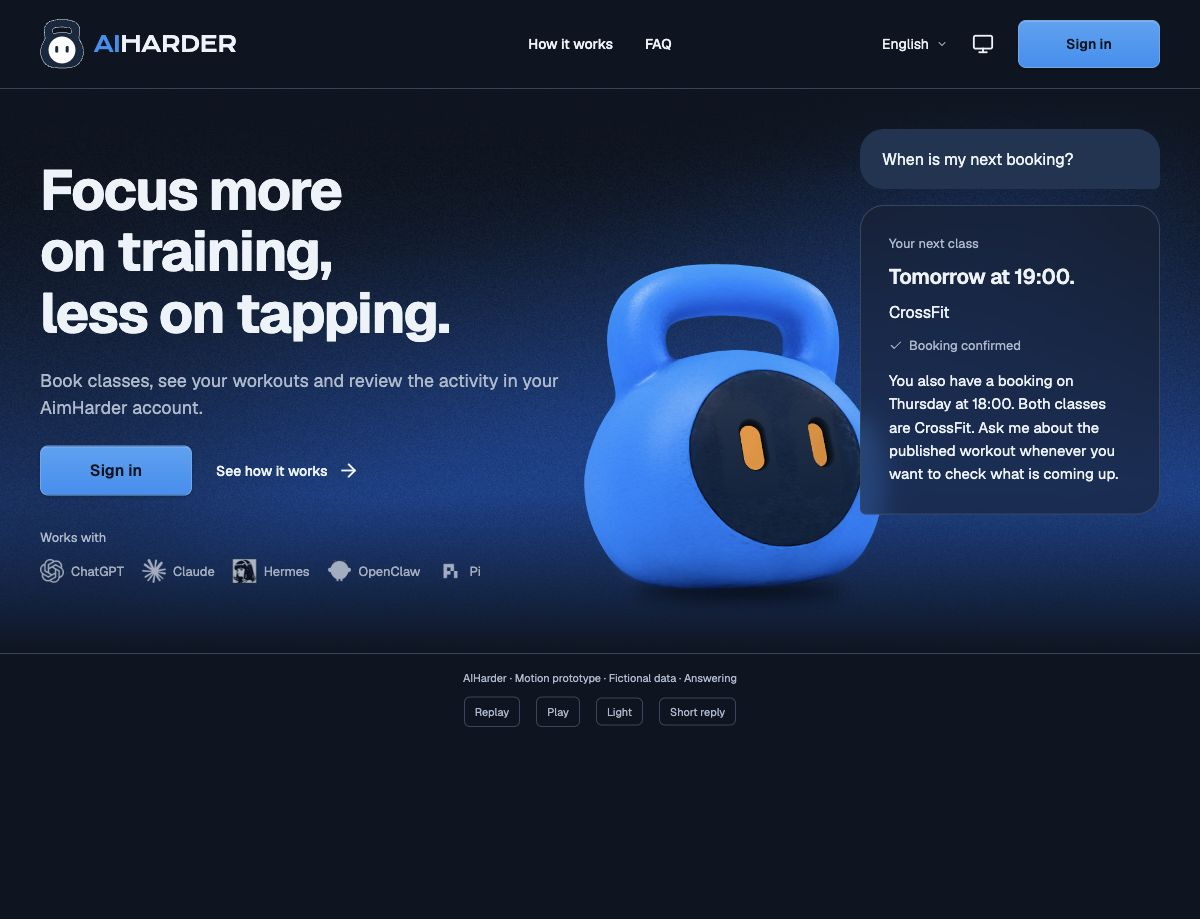
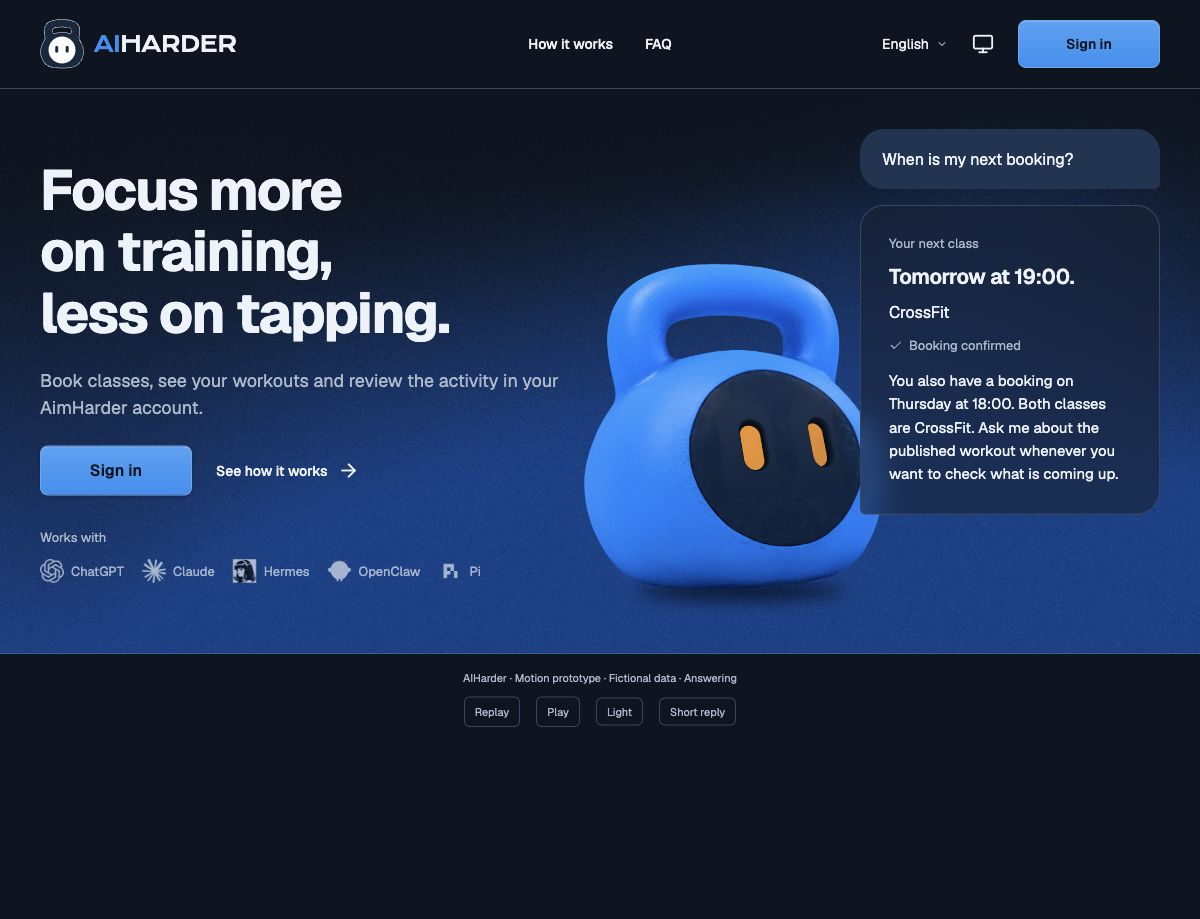
design: anchor hero gradient to a blue lower edge

Changed region(s): [[0.0, 0.5789, 1.0, 0.7312]]

diff --git a/design/home-study/hero-motion-prototype.html b/design/home-study/hero-motion-prototype.html
@@ -6,4 +6,4 @@
 @media(max-width:1320px){.kettle{left:-60px;top:126px;width:300px;height:344px}.kettle img{width:435.13px;height:435.13px;left:-68px;top:-57.79px}.answer{width:300px}.ground{left:-8px;top:460px;width:210px}.ground::after{width:154px}}
 @media(max-width:1150px){.hero{grid-template-columns:46% 1fr;gap:40px}h1{font-size:50px}.brand{font-size:20px}.utilities{gap:16px}.nav{gap:24px}.question{width:270px}.answer{width:300px}.kettle{left:-70px}.apps{gap:12px}.app{font-size:12px;gap:5px}}
 @media(max-width:850px){.container{width:calc(100% - 40px)}.header-inner{grid-template-columns:1fr auto;min-height:80px}.nav{display:none}.utilities{gap:16px}.language{display:none}.hero{display:block;padding-top:28px}.pitch{max-width:532px}.scene{height:520px;margin:32px auto 0;max-width:596px}.kettle{left:0}.question{right:0}.answer{right:0}.apps{flex-wrap:wrap}h1{font-size:44px}.header-signin{min-width:100px;padding:12px 18px}.brand{font-size:17px}.brand img{width:35px;height:40px}}
[2 lines of base64/hex data omitted]

diff --git a/design/home-study/hero-graphic-still.html b/design/home-study/hero-graphic-still.html
@@ -6,4 +6,4 @@
 @media(max-width:1320px){.kettle{left:-60px;top:126px;width:300px;height:344px}.kettle img{width:435.13px;height:435.13px;left:-68px;top:-57.79px}.answer{width:300px}.ground{left:-8px;top:460px;width:210px}.ground::after{width:154px}}
 @media(max-width:1150px){.hero{grid-template-columns:46% 1fr;gap:40px}h1{font-size:50px}.brand{font-size:20px}.utilities{gap:16px}.nav{gap:24px}.question{width:270px}.answer{width:300px}.kettle{left:-70px}.apps{gap:12px}.app{font-size:12px;gap:5px}}
 @media(max-width:850px){.container{width:calc(100% - 40px)}.header-inner{grid-template-columns:1fr auto;min-height:80px}.nav{display:none}.utilities{gap:16px}.language{display:none}.hero{display:block;padding-top:28px}.pitch{max-width:532px}.scene{height:520px;margin:32px auto 0;max-width:596px}.kettle{left:0}.question{right:0}.answer{right:0}.apps{flex-wrap:wrap}h1{font-size:44px}.header-signin{min-width:100px;padding:12px 18px}.brand{font-size:17px}.brand img{width:35px;height:40px}}
[2 lines of base64/hex data omitted]

diff --git a/design/home-study/hero-surface-study.md b/design/home-study/hero-surface-study.md
@@ -9,7 +9,7 @@ The owner supplied a React Bits Grainient export and requested adapting it as th
 | Decision | Reference | Implementation |
 | --- | --- | --- |
 | Flowing blue/white grain | Owner's component export and [official Grainient](https://reactbits.dev/backgrounds/grainient) source | Adapt the supplied WebGL2 field/composite shaders to the existing HTML prototype, preserving the requested palette/settings without adding React dependencies. |
-| Text legibility | Existing AIHarder palette/type roles and the owner's hero | Use the gradient across the complete hero width, including behind the pitch. Keep only top/bottom edge fades; retain readable foreground tokens. Dark uses the existing navy base with the same blue accent. |
+| Text legibility | Existing AIHarder palette/type roles and the owner's hero | Use the gradient across the complete hero width, including behind the pitch. Keep the top edge fade and a blue bottom boundary; retain readable foreground tokens. Dark uses the existing navy base with the same blue accent. |
 | Compact spacing | Owner's density request | Header minimum content height 120 → 88px; hero padding 72px top / 64px bottom → 32px each. The 1px header rule makes its measured total height 89px. Shared horizontal gutters stay aligned. |
 | Translucent reply | Owner's opacity request | Surface alpha 90% → 60% in both themes. Keep 12px backdrop blur, border, asymmetric corner and the established compact message stack. |
 | Flat header mark | Owner's explicit three-color construction, existing neutral kettle | Vectorize the existing alpha silhouette, including the handle hole. Use `#14283F`, a white face circle and navy rounded eyes. Dark adds a 0.5px-equivalent light keyline for separation while keeping those fills. |
@@ -21,7 +21,7 @@ The owner supplied a React Bits Grainient export and requested adapting it as th
 - [Flat SVG Light](assets/kettle-flat-light.svg) / [Dark](assets/kettle-flat-dark.svg), reproducible with [render-flat-mark.html](render-flat-mark.html). The exporter reads the unchanged neutral poster alpha at threshold 160, traces closed contours, simplifies at 1.4px and smooths the vector outline. No raster retouch, generated replacement mascot or manual silhouette drawing is used. Face/eye geometry is deliberately flat as requested.
 - [Background mount](hero-background-mount.js), [app-integrated renderer](grainient-background.js), [upstream notice/license](vendor/README.md).
 
-The requested values are retained: white / `#0065e0`, angle 180, flow 0.8, silk 0.5, grain 0.08, scale 1.4, grain size 1.3, saturation 0.99 and stir 0.95, with intro/click swirl disabled. Light mode is enabled only for Light; Dark uses `#0d1521` as its first color. Background layer opacity and vertical edge fades integrate these colors with the existing page instead of changing text/CTA roles.
+The requested values are retained: white / `#0065e0`, angle 180, flow 0.8, silk 0.5, grain 0.08, scale 1.4, grain size 1.3, saturation 0.99 and stir 0.95, with intro/click swirl disabled. Light mode is enabled only for Light; Dark uses `#0d1521` as its first color. Background layer opacity and the top edge fade integrate these colors with the existing page instead of changing text/CTA roles.
 
 The background has one tracked render loop, stops when paused/hidden/offscreen, renders still for reduced motion or `motion=off`, caps DPR at 1, and limits scheduling to 30fps. These are implementation limits, not a measured device performance guarantee. The existing 3D/typing clock is unchanged. A CSS gradient remains when WebGL2 is unavailable; actual context-loss/device fallback was not exercised.
 
@@ -38,3 +38,9 @@ Review found and fixed incomplete initialization cleanup: missing WebGL or faile
 The owner requested that the gradient cover the whole hero instead of appearing only on the right. Removed the horizontal white/navy overlays in both HTML sources and themes; the same shader now remains visible behind the pitch, central character and message stack. Top/bottom boundary fades remain. The Light support copy uses the existing ink token to stay readable over the blue. No shader, motion timing, page geometry or native pen changes are involved.
 
 Verified the full-width correction visually in Light/Dark at 1200px. The background and hero each measured 1200px wide; computed overlays contain only the vertical fade and neither page overflows horizontally. The linked surface captures now show this correction. Earlier 1440px observations refer to the preceding surface revision. No ADR change is required for this visual correction.
+
+## Blue lower boundary — 2026-11-01
+
+The owner requested blue from the very bottom of the hero grading toward white above, with a blue-tinted lower boundary. Removed the bottom-to-white fade in both HTML sources/themes. The existing 180-degree Grainient palette now reaches the final bottom pixel; only the upper blend remains (white in Light, page navy in Dark). A 1px blue border closes the hero (`#79a4dc` Light / `#2d609b` Dark), replacing the adjacent review-footer divider to avoid a double rule. The prior full-width study’s retained bottom fade is superseded here. No shader, timing, API, native pen or architecture/ADR changes are involved.
+
+Verified Light/Dark at 1200px: the gradient remains blue at the lower edge, the 1px border uses the theme-specific blue and the adjacent footer has no second top border. Computed styles confirm a top-only fade and no horizontal overflow. Captures/checks are updated; broader runtime tests are unnecessary for this CSS-only refinement.
